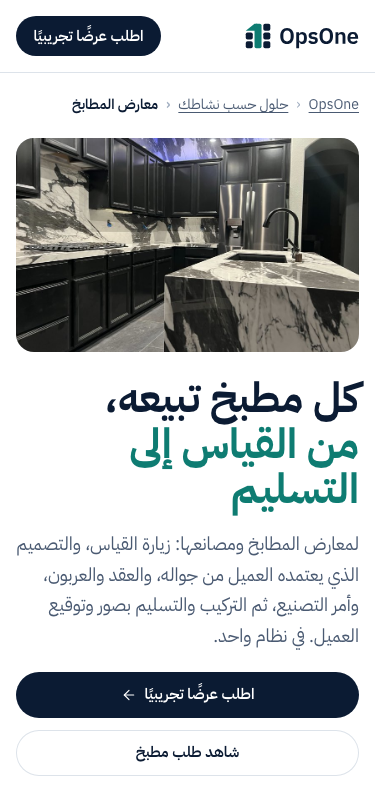
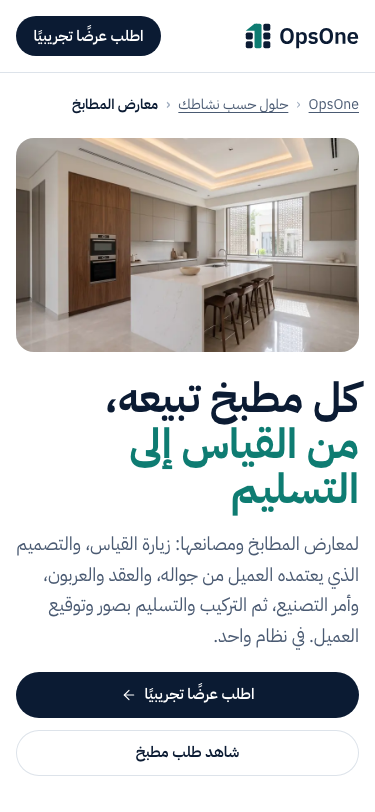
feat(marketing): kitchens page images from Magnific
Replace the four placeholder photos on the kitchens sector page with
AI images generated on the Magnific account (Nano Banana 2.1, 260
credits): a Saudi villa kitchen, a Riyadh showroom, a hardware display
and a man measuring a kitchen wall. WebP in several widths, new OG
image, credits.json and IMAGES.md updated. build.mjs now accepts an
optional srcset for channel images.

Changed region(s): [[0.0293, 0.1539, 0.968, 0.431]]

diff --git a/marketing/site-next/solutions/kitchens/index.html b/marketing/site-next/solutions/kitchens/index.html
@@ -17,7 +17,7 @@
 <meta property="og:image" content="https://www.opsone.example/solutions/kitchens/og-kitchens.jpg">
 <meta property="og:image:width" content="1200">
 <meta property="og:image:height" content="630">
-<meta property="og:image:alt" content="OpsOne لمعارض المطابخ: مطبخ حديث وخط الطلب من القياس إلى التسليم">
+<meta property="og:image:alt" content="OpsOne لمعارض المطابخ: مطبخ منفّذ في فيلا سعودية وعنوان الصفحة">
 <meta name="twitter:card" content="summary_large_image">
 <meta name="twitter:title" content="برنامج إدارة معارض ومصانع المطابخ | OpsOne">
 <meta name="twitter:description" content="OpsOne لمعارض المطابخ: زيارة القياس، والتصميم بنسخه يعتمده العميل، وعرض السعر والعقد الموقّع إلكترونيًا، والعربون والدفعات، وأمر التصنيع، ثم التركيب والتسليم بصور وتوقيع العميل.">
@@ -29,7 +29,7 @@
 <link rel="manifest" href="../../site.webmanifest">
 <link rel="preload" href="../../assets/fonts/IBMPlexSansArabic-Bold.woff2" as="font" type="font/woff2" crossorigin>
 <link rel="preload" href="../../assets/fonts/IBMPlexSansArabic-Regular.woff2" as="font" type="font/woff2" crossorigin>
-<link rel="preload" as="image" href="img/kitchen-hero-1400.jpg" imagesrcset="img/kitchen-hero-820.jpg 820w, img/kitchen-hero-1400.jpg 1400w" imagesizes="(max-width: 760px) 100vw, 45vw" fetchpriority="high">
+<link rel="preload" as="image" href="img/kitchen-hero-1200.webp" imagesrcset="img/kitchen-hero-820.webp 820w, img/kitchen-hero-1200.webp 1200w, img/kitchen-hero-1600.webp 1600w" imagesizes="(max-width: 760px) 100vw, 45vw" fetchpriority="high">
 <link rel="stylesheet" href="../../styles.css">
 <link rel="stylesheet" href="../sector.css">
 <script>document.documentElement.classList.add('js');window.OPSONE_PAGE={sector:"kitchens"};</script>
@@ -62,7 +62,7 @@
         <a class="btn btn--quiet" href="#order">شاهد طلب مطبخ</a>
       </div>
     </div>
-    <figure class="shero__photo"><img src="img/kitchen-hero-1400.jpg" srcset="img/kitchen-hero-820.jpg 820w, img/kitchen-hero-1400.jpg 1400w" sizes="(max-width: 760px) 100vw, 45vw" width="1400" height="1050" alt="مطبخ حديث بخزائن داكنة وسطح وجزيرة من الرخام" fetchpriority="high" decoding="async"></figure>
+    <figure class="shero__photo"><img src="img/kitchen-hero-1200.webp" srcset="img/kitchen-hero-820.webp 820w, img/kitchen-hero-1200.webp 1200w, img/kitchen-hero-1600.webp 1600w" sizes="(max-width: 760px) 100vw, 45vw" width="1600" height="1195" alt="مطبخ منفّذ في فيلا سعودية: خزائن بلا مقابض بلون رملي وخشب الجوز، وجزيرة بسطح كوارتز أبيض، ونافذة بحاجب هندسي" fetchpriority="high" decoding="async"></figure>
   </div>
   <div class="route" id="route">
     <div class="stations stations--6" role="group" aria-label="رحلة طلب المطبخ ORD-2026-00231" id="stations" style="--n:6">
@@ -132,9 +132,9 @@
   <div class="wrap">
     <div class="sec-head"><h2 class="head" id="channels-title">ثلاث قنوات لبيع المطابخ، ونظام واحد</h2><p class="lead">المعرض، ومتجر للإكسسوارات والأجهزة الجاهزة، والبيع الميداني في بيت العميل. كلها تصل إلى طلب واحد، وتقرير لكل قناة ولكل بائع.</p></div>
     <ul class="panes">
-      <li class="pane is-open"><button class="pane__btn" type="button" aria-expanded="true" aria-controls="pane-showroom"><img src="img/kitchen-display-1000.jpg" width="1000" height="750" alt="خزائن مطبخ معروضة في معرض بواجهات زجاجية وحوض" loading="lazy" decoding="async"><span class="pane__label"><svg class="ic" aria-hidden="true"><use href="#i-store"/></svg><b>المعرض</b></span></button><div class="pane__body" id="pane-showroom"><p>زائر المعرض يُسجَّل اهتمامًا، ويُحجز له موعد قياس، ثم يتحول إلى طلب مطبخ بضغطة، ومعه ما طلبه ومن يتابعه.</p></div></li>
-      <li class="pane"><button class="pane__btn" type="button" aria-expanded="false" aria-controls="pane-store"><img src="img/kitchen-hardware-1000.jpg" width="1000" height="750" alt="لوحة عرض لمقابض خزائن المطبخ" loading="lazy" decoding="async"><span class="pane__label"><svg class="ic" aria-hidden="true"><use href="#i-shopping-bag"/></svg><b>متجر الإكسسوارات والأجهزة</b></span></button><div class="pane__body" id="pane-store"><p>المقابض والإكسسوارات والأجهزة الجاهزة تُباع من المخزون نفسه بدفع إلكتروني، وترسل لعميلك رابط سلة جاهزة.</p></div></li>
-      <li class="pane"><button class="pane__btn" type="button" aria-expanded="false" aria-controls="pane-home"><img src="img/kitchen-measure-1000.jpg" width="1000" height="639" alt="شريط قياس معدني مفتوح" loading="lazy" decoding="async"><span class="pane__label"><svg class="ic" aria-hidden="true"><use href="#i-map-pin"/></svg><b>البيع الميداني في بيت العميل</b></span></button><div class="pane__body" id="pane-home"><p>يوزّع المشرف فرصة البيع أو طلب الموعد على بائع ميداني، فيزور العميل في بيته، ويسجّل المقاسات وصور الموقع من جواله، ثم يرسل عرض السعر ورابط توقيع العقد. ويُحسب الطلب على قناة البيع الميداني، وعمولته للبائع.</p></div></li>
+      <li class="pane is-open"><button class="pane__btn" type="button" aria-expanded="true" aria-controls="pane-showroom"><img src="img/kitchen-showroom-1200.webp" srcset="img/kitchen-showroom-640.webp 640w, img/kitchen-showroom-1200.webp 1200w" sizes="(max-width: 760px) 100vw, 60vw" width="1200" height="896" alt="معرض مطابخ حديث فيه عدة مطابخ معروضة بواجهات لامعة وخشبية، وجدار لعينات الأبواب والأسطح" loading="lazy" decoding="async"><span class="pane__label"><svg class="ic" aria-hidden="true"><use href="#i-store"/></svg><b>المعرض</b></span></button><div class="pane__body" id="pane-showroom"><p>زائر المعرض يُسجَّل اهتمامًا، ويُحجز له موعد قياس، ثم يتحول إلى طلب مطبخ بضغطة، ومعه ما طلبه ومن يتابعه.</p></div></li>
+      <li class="pane"><button class="pane__btn" type="button" aria-expanded="false" aria-controls="pane-store"><img src="img/kitchen-hardware-1200.webp" srcset="img/kitchen-hardware-640.webp 640w, img/kitchen-hardware-1200.webp 1200w" sizes="(max-width: 760px) 100vw, 60vw" width="1200" height="896" alt="رف عرض لمقابض الخزائن والمفصلات ومجاري الأدراج وسلة ركنية ومنظم أدراج" loading="lazy" decoding="async"><span class="pane__label"><svg class="ic" aria-hidden="true"><use href="#i-shopping-bag"/></svg><b>متجر الإكسسوارات والأجهزة</b></span></button><div class="pane__body" id="pane-store"><p>المقابض والإكسسوارات والأجهزة الجاهزة تُباع من المخزون نفسه بدفع إلكتروني، وترسل لعميلك رابط سلة جاهزة.</p></div></li>
+      <li class="pane"><button class="pane__btn" type="button" aria-expanded="false" aria-controls="pane-home"><img src="img/kitchen-measure-1200.webp" srcset="img/kitchen-measure-640.webp 640w, img/kitchen-measure-1200.webp 1200w" sizes="(max-width: 760px) 100vw, 60vw" width="1200" height="805" alt="رجل بثوب أبيض يقيس جدار المطبخ بشريط قياس في فيلا جديدة قبل التصنيع" loading="lazy" decoding="async"><span class="pane__label"><svg class="ic" aria-hidden="true"><use href="#i-map-pin"/></svg><b>البيع الميداني في بيت العميل</b></span></button><div class="pane__body" id="pane-home"><p>يوزّع المشرف فرصة البيع أو طلب الموعد على بائع ميداني، فيزور العميل في بيته، ويسجّل المقاسات وصور الموقع من جواله، ثم يرسل عرض السعر ورابط توقيع العقد. ويُحسب الطلب على قناة البيع الميداني، وعمولته للبائع.</p></div></li>
     </ul>
   </div>
 </section>

diff --git a/marketing/site-next/index.html b/marketing/site-next/index.html
@@ -638,7 +638,7 @@
     <div class="sec-head"><h2 class="head" id="solutions-title">حلول حسب نشاطك</h2><p class="lead">صفحات تشرح OpsOne بلغة نشاطك: مراحله وأرقامه وأسئلته.</p></div>
     <ul class="solutions__grid">
       <li><a class="solution" href="solutions/kitchens/">
-        <img src="solutions/kitchens/img/kitchen-hero-820.jpg" width="820" height="615" alt="" loading="lazy" decoding="async">
+        <img src="solutions/kitchens/img/kitchen-hero-820.webp" width="820" height="612" alt="" loading="lazy" decoding="async">
         <span class="solution__body"><b>معارض المطابخ</b><span>من زيارة القياس واعتماد التصميم، إلى أمر التصنيع والتركيب والتسليم.</span><span class="solution__go">اقرأ الصفحة <svg class="ic ic--dir" aria-hidden="true"><use href="#i-arrow"/></svg></span></span>
       </a></li>
       <li><a class="solution" href="solutions/custom-furniture/">

diff --git a/marketing/site-next/solutions/kitchens/IMAGES.md b/marketing/site-next/solutions/kitchens/IMAGES.md
@@ -1,0 +1,57 @@
+# صور صفحة معارض المطابخ (Magnific)
+
+تاريخ: 2026-11-05. الحساب: Magnific، باقة Premium، متصل عبر MCP باسم `magnific`.
+
+## ما تتيحه أدوات Magnific
+
+الأدوات تجمع مسارين:
+
+| المسار | الأداة | ماذا تفعل | التكلفة كما ظهرت |
+|---|---|---|---|
+| مكتبة صور (Freepik stock) | `stock_search` ثم `stock_download` | بحث بالكلمات أو بالتشابه، مع فلاتر: صور فقط، بلا أشخاص، مولّدة بالذكاء الاصطناعي أو لا | يظهر `creditCost` لكل عنصر: 40 للعنصر المجاني، 150 للعنصر Premium |
+| توليد بالذكاء الاصطناعي | `images_generate` | توليد صورة من وصف نصي، بنماذج متعددة (`images_models_list`) | `simulate_cost` قدّر الوضع `auto` بنحو 50 (متغير)، و`imagen-nano-banana-2-1` بدقة 2k بـ 65 بالضبط |
+
+وأدوات أخرى لم تُستخدم هنا: التكبير (`images_upscale`)، والقص والتوسيع والتعديل الموضعي.
+`simulate_cost` يقدّر التكلفة قبل التنفيذ دون خصم. و`account_balance` يعرض الرصيد.
+
+## لماذا اخترنا التوليد
+
+نتائج البحث في المكتبة («modern kitchen showroom») أغلبها مطابخ أوروبية أو صور مولّدة أصلاً،
+ولا تضمن غياب الشعارات على الأجهزة ولا تعطي طابع الفيلا السعودية.
+التوليد يسمح بفرض الشروط في الوصف: فيلا في الرياض، لا نساء، لا شعارات ولا نصوص، يد رجل بثوب أبيض.
+النموذج: Google Nano Banana 2.1 (`imagen-nano-banana-2-1`)، وهو النموذج الموصى به أولاً في الكتالوج.
+
+## الاستهلاك
+
+- أربع عمليات توليد، كل واحدة 65 رصيداً: **260 رصيداً**.
+- الرصيد قبل: 232,064. وبعد: 231,804 (من خطة 240,000).
+- لم تُرفض أي صورة، فلم نحتج إعادة توليد. الحد المسموح كان ثماني صور.
+
+## الترخيص
+
+- أدوات MCP لا تعرض نص الترخيص. ما يلي مبني على شروط Magnific/Freepik العامة،
+  و**لم يُتحقق منه من داخل الأدوات**:
+  الصور المولّدة على باقة مدفوعة تُستخدم تجارياً دون نسبة.
+  صور المكتبة لها ترخيص منفصل؛ والعنصر Premium يحتاج باقة مدفوعة وقد يُطلب فيه ذكر المصدر للمجاني.
+- قبل الإطلاق: يراجع صاحب الحساب صفحة الشروط في magnific.com ويؤكد الاستخدام التجاري.
+- الصور مولّدة بالذكاء الاصطناعي. الرجل في صورة القياس شخص غير حقيقي، ووجهه خارج الإطار.
+
+## خانات الصور في الصفحة
+
+| الخانة | الدور | الملف | المقاسات |
+|---|---|---|---|
+| الواجهة (hero)، وبطاقة المطابخ في الصفحة الرئيسية | مطبخ منفّذ في فيلا سعودية، يقول «هذا عملك» | `img/kitchen-hero-*.webp` | 820، 1200، 1600 |
+| قنوات البيع: المعرض | زائر المعرض يرى مطابخ معروضة وعينات | `img/kitchen-showroom-*.webp` | 640، 1200 |
+| قنوات البيع: متجر الإكسسوارات | مقابض ومفصلات ومجاري أدراج تُباع من المخزون | `img/kitchen-hardware-*.webp` | 640، 1200 |
+| قنوات البيع: البيع الميداني | بائع يقيس في بيت العميل | `img/kitchen-measure-*.webp` | 640، 1200 |
+| صورة المشاركة (OG) | نصفها الأيسر من صورة الواجهة، والنصف الأيمن الشعار والعنوان كما كانا | `og-kitchens.jpg` | 1200×630 |
+
+التحويل: `sharp` بجودة WebP 76. ونسخ PNG الأصلية بدقة 2k محفوظة في حساب Magnific (المشروع الشخصي).
+`build.mjs` صار يقبل `srcset` اختيارياً لصور قنوات البيع، والصفحات الأخرى لا تتأثر.
+
+## الوصف المستخدم (مختصر)
+
+1. الواجهة: مطبخ حديث في فيلا بالرياض، خزائن بلا مقابض بلون رملي وخشب الجوز، جزيرة كوارتز، سقف جبس بإضاءة مخفية، نافذة بحاجب مستوحى من المشربية.
+2. المعرض: معرض مطابخ في الرياض بعدة مطابخ معروضة وجدار عينات، بلا لوحات ولا نصوص.
+3. المتجر: رف عرض مقابض ومفصلات ومجاري أدراج وسلة ركنية، بلا ملصقات أسعار.
+4. القياس: يد رجل بكم ثوب أبيض تمد شريط قياس على جدار مطبخ فارغ في فيلا جديدة، وجهاز لوحي بمخطط.
